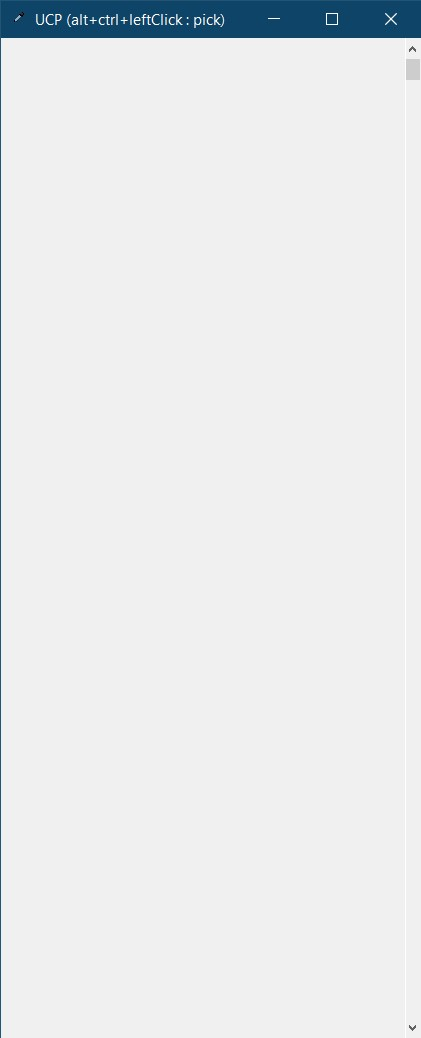
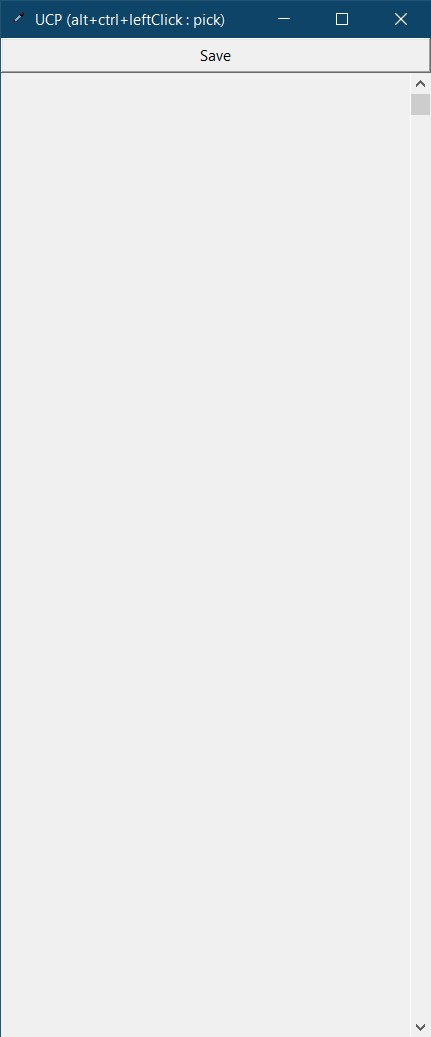
Pallete saving functionality added

diff --git a/main.py b/main.py
@@ -2,7 +2,46 @@
 import pyautogui
 import win32api
 from tkinter import *
+from tkinter import filedialog
 from PIL import Image
+
+def SaveAs():
+        """ This function opens a save file browser and saves file. """
+
+        # Function for opening the  browser  
+        filename = filedialog.asksaveasfile(filetypes=[("Gimp Pallet", ".gpl")], defaultextension=[("Gimp Pallet", ".gpl")]) 
+
+        # For Debugging
+        #print(filename)
+
+        SavePallet(filename)
+
+
+def SavePallet(filename):
+    """ This function is used to make entry in the newly created file after SaveAs()."""
+    try:
+        PalletName = filename.name[filename.name.rfind("/")+1:]
+        PalletName = PalletName[:len(PalletName)-4]
+        
+        # For Debugging Purpose
+        # print(PalletName)
+
+        PalletFileContent = "GIMP Palette\n"
+        PalletFileContent += "#Name: %s \n#Made with Universal Color Picker\n"%(PalletName)
+        PalletFileContent += "#Colors : %d\n"%(len(PalletList))
+
+        for i in PalletList:
+            PalletFileContent += i
+            PalletFileContent += "\n" 
+
+        PalletFile = open(filename.name, 'w')
+        PalletFile.write(PalletFileContent)
+        PalletFile.close()
+
+    except AttributeError:
+        # Error Handling for cancelling the save process
+        pass
+            
 
 def main():
 
@@ -99,6 +138,9 @@ def main():
 
         displayString = "r = %f, g = %f, b = %f \nh = %f, s = %f, v = %f \nHex Value = #"%(r, g, b, h, s, v)
         displayString += str(colorHex)
+
+        SaveString = "%f %f %f "%(r, g, b) + str(colorHex) 
+        PalletList.append(SaveString)
         
         # Creating Pallet
         
@@ -120,11 +162,10 @@ def main():
 
 
         Label_Text = Label(master = Label_Main, text=displayString)
+    
         Label_Text.grid(row = 1)
 
         Label_Main.grid()
-
-
 
         PalletCount += 1
 
@@ -141,6 +182,12 @@ def main():
     main_window.geometry("430x1000")
     main_window.title("UCP (alt+ctrl+leftClick : pick)")
 
+    global PalletList
+    PalletList = []
+
+    # Save Button
+    SaveButton = Button(master = main_window, text="Save", command = SaveAs, width = 400)
+    SaveButton.pack(side="top")
 
     # Canvas creation
     C = Canvas(master=main_window, width=400, height=100000)

diff --git a/README.md b/README.md
@@ -1,8 +1,8 @@
 # About
-Universal Color Picker is project aimed to create a color picker tool for artist, which works on whole window (not bounded by the boundaries of software) and create a selected color pallet with their rgb, hsv and hex value. If you want to run this then the start script is 'entry.py'. Exe file of this project can be found in other repository with name universal color picker executables (link to repository: https://github.com/RishabhRathi-Dev/Universal-Color-Picker-Executables ) and at sourceforge whose link is provided in about section
+Universal Color Picker is project aimed to create a color picker and pallet making tool for artist. UCP aims to allow user to pick color from whole window (not bounded by the boundaries of software).
 
 # Working 
-When the hotkey (alt+ctrl+LeftClick) is pressed, program takes screenshot of screen (_Screenshot is not saved_) while noting the position of cursor. Using pillow library, program finds out the rgb value of the pixel at which cursor was pointing. With this rgb, We can easily find out hex and hsv value. This color is then displayed in pallet style on the program window with their respective rgb, hsv and hex value. Program can hold approx 400 colors each session. There is currently no method to save the pallet, each session starts with blank window.
+When the hotkey (alt+ctrl+LeftClick) is pressed, program takes screenshot of screen (_Screenshot is not saved_) while noting the position of cursor. Using pillow library program finds out the rgb value of the pixel at which cursor was pointing. With this rgb, We can easily find out hex and hsv value. This color is then displayed in pallet style in the program window with rgb, hsv and hex value. Program can hold approx 400 colors each session. You can save pallets as Gimp Pallet file by pressing the save button and use it in all compatible softwares (Looking at GIMP and Krita).
 
 # Pictures
 | At Start | After Few Entries |
